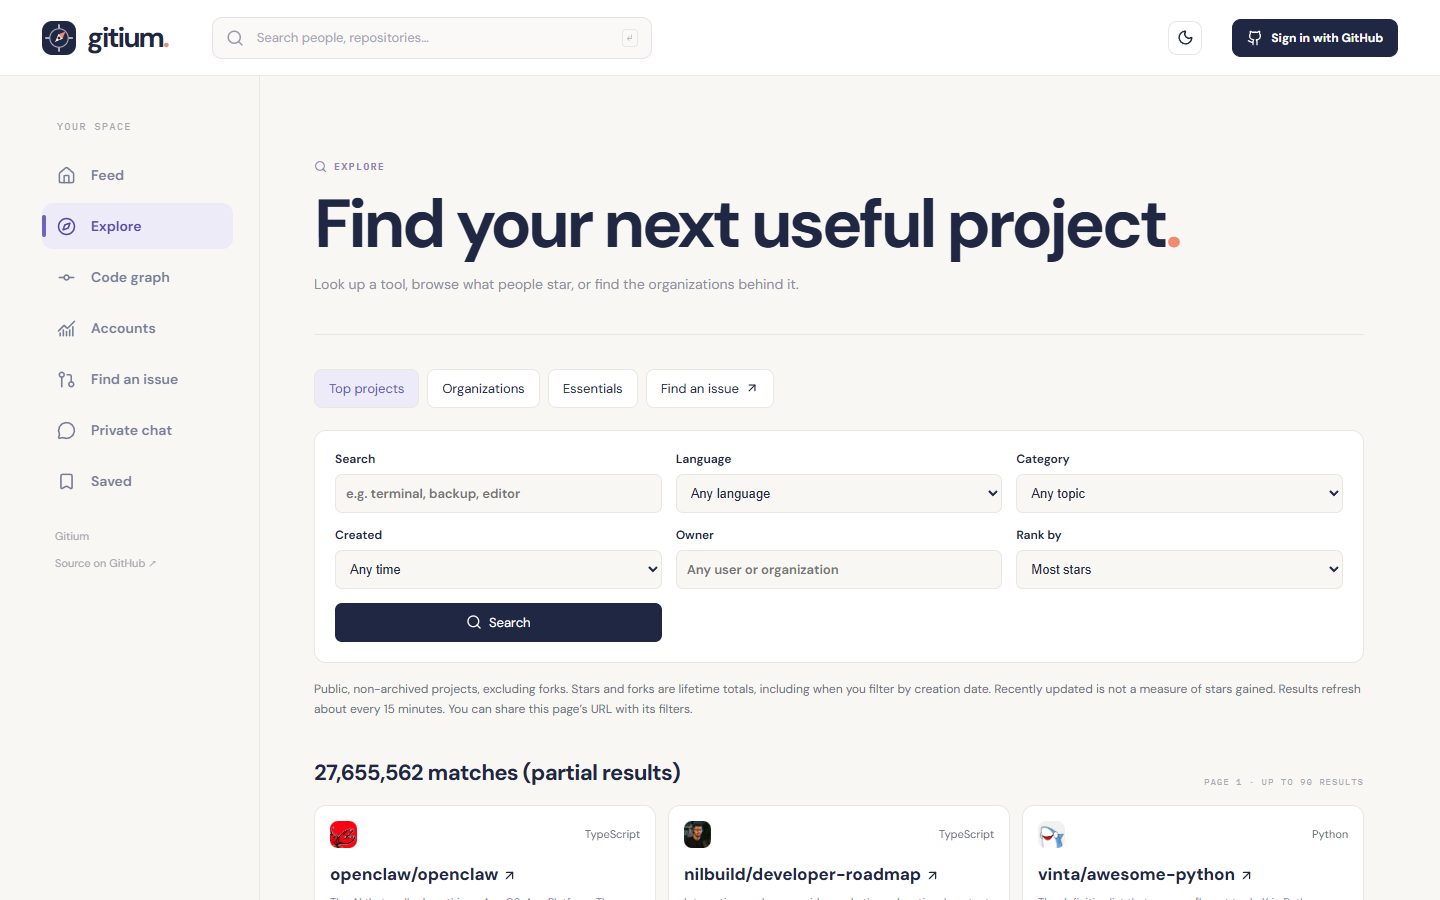
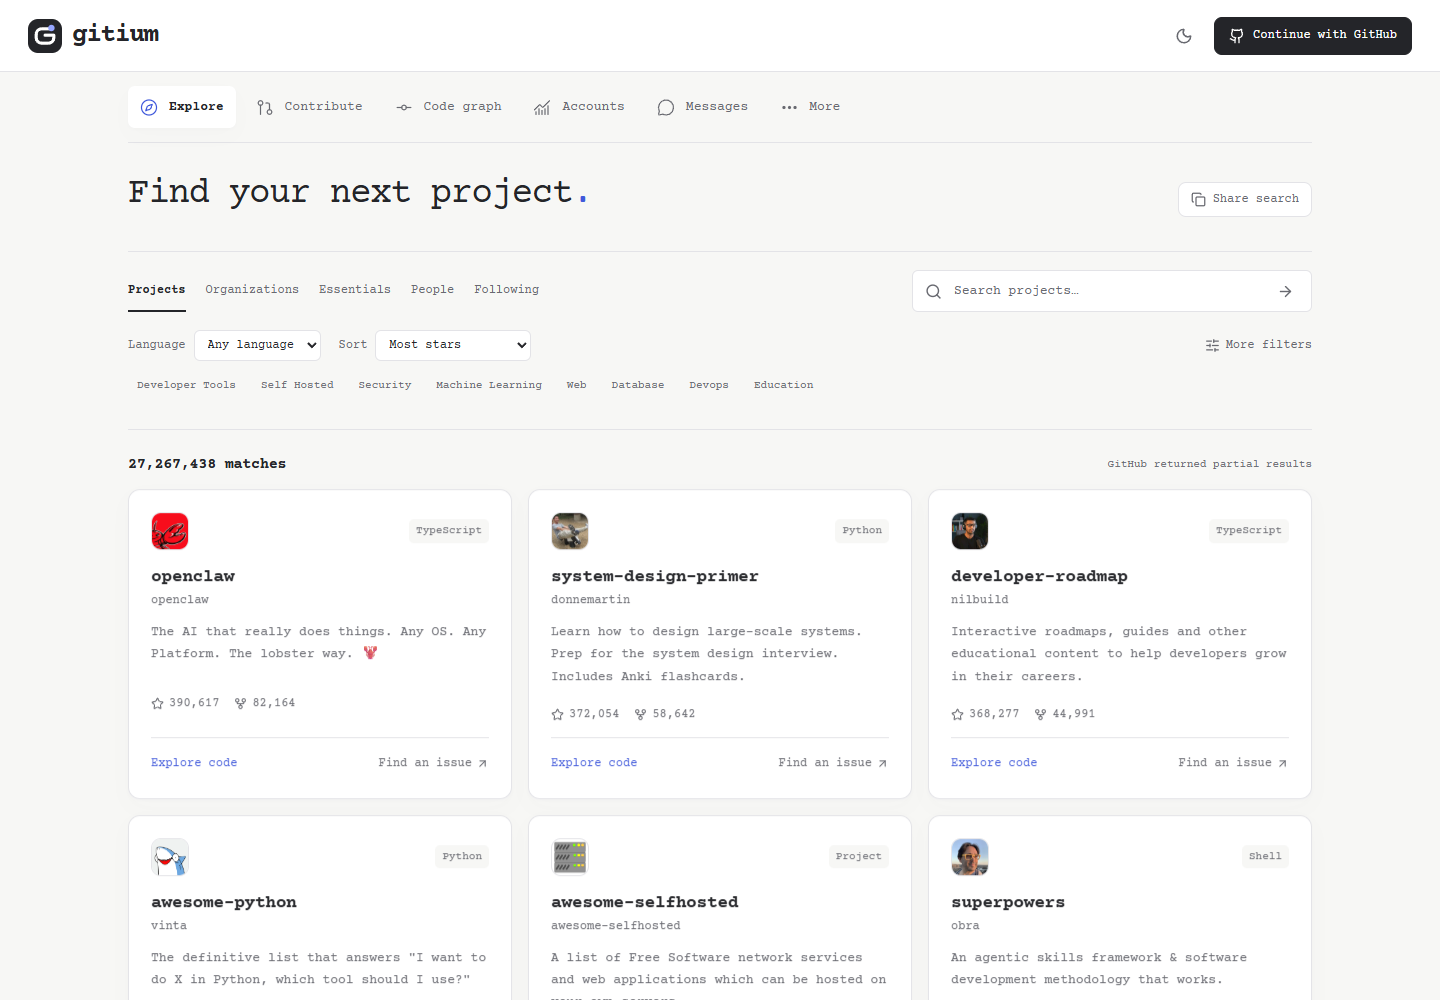
Add interactive first visit, populate People and polish discovery layouts

diff --git a/src/app/search/page.tsx b/src/app/search/page.tsx
@@ -1,18 +1,26 @@
 import { authEnabled } from '@/lib/auth';
 import { dbConfigured } from '@/lib/d1';
-import { getFollowedLogins } from '@/lib/follows';
-import { searchGitHub } from '@/lib/github';
+import { searchPeople } from '@/lib/github';
 import { Shell } from '@/components/Shell';
 import { FollowButton } from '@/components/FollowButton';
-import { ArrowUpRight, Search, Star } from 'lucide-react';
+import { DefaultSearch } from '@/components/SiteSearch';
+import { ExploreTabs } from '@/components/ExploreTabs';
+import { ArrowUpRight } from 'lucide-react';
 import Link from 'next/link';
 
-export const metadata = { title: 'Search', robots: { index: false, follow: true }, alternates: { canonical: '/search' } };
+export const metadata = { title: 'People on GitHub', robots: { index: false, follow: true }, alternates: { canonical: '/search' } };
 export default async function SearchPage({ searchParams }: { searchParams: Promise<{ q?: string }> }) {
   const query = String((await searchParams).q || '').trim().slice(0, 80);
-  const [results, follows] = await Promise.all([searchGitHub(query).then(data => ({ ...data, unavailable: false })).catch(() => ({ users: [], repos: [], unavailable: true })), getFollowedLogins()]);
-  return <Shell searchPeople searchInitial={query} authReady={authEnabled()} dataReady={dbConfigured()}><div className="wide-page"><div className="page-heading"><span className="eyebrow"><Search size={13} /> SEARCH GITHUB</span><h1>{query ? <>Results for <em>{query}</em><span>.</span></> : <>Find something good<span>.</span></>}</h1></div>{results.unavailable && <p className="status-banner" role="status">GitHub search is unavailable right now. Try again later.</p>}
-    <div className="section-bar"><h2>People</h2><span>{results.users.length} RESULTS</span></div>{results.users.length ? <div className="explore-people">{results.users.map(person => <article className="explore-person" key={person.login}><img src={person.avatar_url} alt="" /><div><Link href={`/u/${person.login}`}>{person.login} <ArrowUpRight size={14} /></Link><p>GitHub profile</p></div><FollowButton login={person.login} initial={follows.includes(person.login.toLowerCase())} enabled={dbConfigured()} /></article>)}</div> : <p className="empty-row">No people found.</p>}
-    <div className="section-bar"><h2>Repositories</h2><span>{results.repos.length} RESULTS</span></div>{results.repos.length ? <div className="repo-grid">{results.repos.map(repo => <a className="repo-card" href={repo.html_url} key={repo.id} target="_blank" rel="noopener noreferrer"><div><img src={repo.owner.avatar_url} alt="" /><ArrowUpRight size={18} /></div><h3>{repo.full_name}</h3><p>{repo.description || 'No description provided.'}</p><footer><span>{repo.language || 'Repository'}</span><span><Star size={14} /> {repo.stargazers_count.toLocaleString()}</span></footer></a>)}</div> : <p className="empty-row">No repositories found.</p>}
-  </div></Shell>;
+  const result = await searchPeople(query).catch(() => null);
+  return <Shell pageSearch authReady={authEnabled()} dataReady={dbConfigured()}>
+    <div className="wide-page explore-v2 people-page">
+      <header className="explore-heading"><h1>People<span>.</span></h1></header>
+      <div className="explore-workbench"><div className="explore-toolbar"><ExploreTabs view="people"/><DefaultSearch key={query} scope="people" initial={query}/></div></div>
+      <div className="section-bar"><h2>{query ? `Matches for “${query}”` : 'Popular on GitHub'}</h2>{result && <span>{result.users.length} profiles{result.incomplete ? ' · partial results' : ''}</span>}</div>
+      {!result ? <div className="empty-feed" role="status"><h3>GitHub search is unavailable</h3><p>Please try again shortly.</p><a href={`/search${query ? `?q=${encodeURIComponent(query)}` : ''}`}>Retry</a></div> : result.users.length ?
+        <div className="explore-people">{result.users.map(person => <article className="explore-person" key={person.id}>
+          <img src={person.avatar_url} alt="" width={48} height={48}/><div><Link href={`/u/${person.login}`}>{person.login}<ArrowUpRight size={14}/></Link><a className="person-github" href={person.html_url} target="_blank" rel="noopener noreferrer">GitHub profile</a></div><FollowButton login={person.login} initial={false} enabled={authEnabled()}/>
+        </article>)}</div> : <div className="empty-feed"><h3>No matching people</h3><p>Try a GitHub username or a shorter name.</p><Link href="/search">Browse people</Link></div>}
+    </div>
+  </Shell>;
 }

diff --git a/src/components/FirstVisit.tsx b/src/components/FirstVisit.tsx
@@ -1,0 +1,39 @@
+"use client";
+import { useCallback, useEffect, useRef, useState } from "react";
+import { ArrowRight, Code2, FolderGit2, Users } from "lucide-react";
+
+const sections = [
+  { label: "Projects", icon: FolderGit2, lines: ["open source", "languages & topics", "issues to work on"] },
+  { label: "People", icon: Users, lines: ["GitHub profiles", "people you follow", "shared projects"] },
+  { label: "Code", icon: Code2, lines: ["commits", "contributors", "repository history"] },
+];
+export function FirstVisit() {
+  const dialog = useRef<HTMLDialogElement>(null);
+  const timer = useRef<ReturnType<typeof setTimeout> | undefined>(undefined);
+  const [section, setSection] = useState(0);
+  const [closed, setClosed] = useState(false);
+  const dismiss = useCallback(() => {
+    clearTimeout(timer.current);
+    try { sessionStorage.setItem("gitium-intro-seen", "1"); } catch {}
+    delete document.documentElement.dataset.intro;
+    dialog.current?.close();
+    setClosed(true);
+  }, []);
+  useEffect(() => {
+    if (document.documentElement.dataset.intro !== "pending") return;
+    const node = dialog.current;
+    node?.showModal();
+    timer.current = setTimeout(dismiss, matchMedia("(prefers-reduced-motion: reduce)").matches ? 1000 : 2400);
+    return () => { clearTimeout(timer.current); node?.close(); };
+  }, [dismiss]);
+  if (closed) return null;
+  const selected = sections[section];
+  return <dialog ref={dialog} className="first-visit" aria-labelledby="intro-title" onCancel={event => { event.preventDefault(); dismiss(); }}>
+    <div className="intro-inner">
+      <div className="intro-brand"><svg viewBox="0 0 40 40" fill="none" aria-hidden="true"><path d="M27 11H16a7 7 0 0 0-7 7v4a7 7 0 0 0 7 7h8a7 7 0 0 0 7-7v-3H20" stroke="currentColor" strokeWidth="4" strokeLinecap="round"/><circle cx="28" cy="10" r="4" fill="var(--accent)"/></svg><h1 id="intro-title">gitium<span>_</span></h1></div>
+      <div className="intro-preview" key={section} aria-hidden="true"><div className="intro-orbit"><selected.icon size={32}/><i/><i/><i/></div><div className="intro-lines">{selected.lines.map((line,index)=><span key={line} style={{animationDelay:`${index*100}ms`}}>{line}</span>)}</div></div>
+      <div className="intro-choices" aria-label="Preview Gitium">{sections.map(({label,icon:Icon},index)=><button key={label} aria-pressed={section===index} onClick={()=>{clearTimeout(timer.current);setSection(index);}}><Icon size={15}/>{label}</button>)}</div>
+      <div className="intro-footer"><span role="status">Opening Gitium<span className="intro-dots">…</span></span><button autoFocus onClick={dismiss}>Enter Gitium <ArrowRight size={16}/></button></div>
+    </div>
+  </dialog>;
+}

diff --git a/src/app/intro.css b/src/app/intro.css
@@ -1,0 +1,14 @@
+.first-visit{display:none;position:fixed;inset:0;width:100vw;height:100dvh;max-width:none;max-height:none;margin:0;padding:24px;border:0;background:var(--bg);color:var(--ink);z-index:1000}
+html[data-intro="pending"] .first-visit{display:grid;place-items:center}
+.first-visit::backdrop{background:var(--bg)}
+.intro-inner{width:min(100%,480px)}
+.intro-brand{display:flex;align-items:center;gap:14px;margin-bottom:40px}.intro-brand svg{width:52px;height:52px}.intro-brand h1{font-size:44px;font-weight:400;margin:0;letter-spacing:-2px}.intro-brand h1 span{color:var(--accent);animation:intro-blink 1s steps(2,end) infinite}
+.intro-preview{display:flex;align-items:center;gap:38px;min-height:148px;padding:22px 24px;border-block:1px solid var(--line);margin-bottom:24px}
+.intro-orbit{position:relative;display:grid;place-items:center;flex:none;width:94px;height:94px;border:1px dashed var(--line);border-radius:50%;color:var(--accent)}
+.intro-orbit i{position:absolute;inset:0;animation:intro-orbit 5s linear infinite}.intro-orbit i::before{content:"";position:absolute;left:43px;top:-4px;width:7px;height:7px;border-radius:50%;background:var(--accent)}.intro-orbit i:nth-of-type(2){animation-delay:-1.7s}.intro-orbit i:nth-of-type(3){animation-delay:-3.4s}
+.intro-lines{display:grid;gap:12px;font-size:13px;color:var(--muted)}.intro-lines span{animation:intro-in .35s both}.intro-lines span:nth-child(2){color:var(--ink)}
+.intro-choices{display:flex;gap:8px;flex-wrap:wrap}.intro-choices button{display:flex;align-items:center;gap:7px;padding:10px 12px;border:1px solid var(--line);border-radius:6px;background:transparent;color:var(--muted);font:inherit;font-size:12px}.intro-choices button[aria-pressed=true]{background:var(--paper);border-color:var(--accent);color:var(--ink)}
+.intro-footer{display:flex;justify-content:space-between;align-items:center;gap:16px;margin-top:36px;font-size:11px;color:var(--muted)}.intro-footer button{display:flex;align-items:center;gap:10px;padding:12px 14px;background:var(--ink);color:var(--paper);border:0;border-radius:6px;font:inherit;font-size:12px}
+@keyframes intro-orbit{to{transform:rotate(360deg)}}@keyframes intro-blink{to{opacity:0}}@keyframes intro-in{from{opacity:0;transform:translateY(6px)}to{opacity:1;transform:translateY(0)}}
+@media(max-width:400px){.intro-preview{padding:20px 0;gap:24px}.intro-lines{font-size:11px}.intro-choices button{padding:10px;font-size:11px}.intro-brand h1{font-size:38px}}
+@media(prefers-reduced-motion:reduce){.first-visit *{animation:none!important;transition:none!important}}

diff --git a/src/app/search.css b/src/app/search.css
@@ -7,6 +7,16 @@
 .site-search button:hover{background:var(--lilac);color:var(--accent)}
 .code-input-help{display:flex;flex-wrap:wrap;align-items:center;justify-content:space-between;gap:12px;font-size:12px}
 .status-banner{display:flex;flex-wrap:wrap;align-items:center;gap:10px}
+.page-heading{padding:0 0 20px;margin-bottom:22px;border-bottom:0}
+.page-heading h1{margin-top:8px}
+.explore-person,html[data-theme="dark"] .explore-person{background:var(--paper);border-color:var(--line);gap:14px;padding:18px}
+.explore-person>div>a{display:flex;align-items:center;gap:6px;overflow-wrap:anywhere}
+.explore-person .person-github{font-size:11px;color:var(--muted);font-weight:400;margin-top:6px}
+.explore-person>img{flex:none;object-fit:cover;border-radius:50%;background:var(--hover)}
+.people-page .explore-toolbar{margin-bottom:0}
+.section-bar h2{overflow-wrap:anywhere}
+.route-loading{max-width:1184px;margin:0 auto;padding:40px 24px;color:var(--muted)}.route-loading>span{display:block;font-size:24px;color:var(--ink);margin-bottom:40px}.route-loading>div{height:48px;background:var(--line);opacity:.35;border-radius:6px;margin:16px 0}.route-loading>div:nth-of-type(2){width:70%}.route-loading>div:nth-of-type(3){height:180px}.route-loading>p{font-size:12px}
+@media(max-width:600px){.explore-v2 .explore-controls{display:grid;grid-template-columns:repeat(2,minmax(0,1fr));gap:12px}.explore-v2 .explore-controls label{display:flex;flex-direction:column;align-items:stretch;gap:6px;min-width:0}.explore-v2 .explore-controls select{width:100%;max-width:100%;font-size:12px;height:40px}.explore-v2 .explore-controls>button{grid-column:1/-1;justify-self:start;min-height:36px}.explore-v2 .explore-controls:has(select[aria-label="Essential category"]){grid-template-columns:1fr}.explore-person{padding:14px;gap:10px}.explore-person>img{width:38px;height:38px}.explore-person .follow-btn{padding:8px;font-size:11px}.explore-person a{font-size:12px}}
 .main-column>.site-search{margin-bottom:20px}
 .wide-page>.site-search{margin-bottom:18px}
 .explore-v2 .explore-workbench{padding:18px 0;background:transparent;border:0;border-top:1px solid var(--line);border-bottom:1px solid var(--line);border-radius:0;box-shadow:none}

diff --git a/src/app/layout.tsx b/src/app/layout.tsx
@@ -1,9 +1,11 @@
 import type { Metadata } from 'next';
 import { SessionProvider } from '@/components/SessionProvider';
 import { SiteAnalytics } from '@/components/Analytics';
+import { FirstVisit } from '@/components/FirstVisit';
 import './globals.css';
 import './theme.css';
 import './search.css';
+import './intro.css';
 
 const site = 'https://gitium.vercel.app';
 const description = 'Find top GitHub projects and organizations by language and topic. Browse essential open source tools, explore code graphs, and find issues to contribute to.';
@@ -31,5 +33,5 @@ const structuredData = {
 };
 
 export default function RootLayout({ children }: Readonly<{ children: React.ReactNode }>) {
-  return <html lang="en" suppressHydrationWarning><head><script dangerouslySetInnerHTML={{ __html: "try{document.documentElement.dataset.theme=localStorage.getItem('gitium-theme')||'light'}catch(e){}" }}/><script type="application/ld+json" dangerouslySetInnerHTML={{ __html: JSON.stringify(structuredData) }}/></head><body><SessionProvider>{children}</SessionProvider><SiteAnalytics /></body></html>;
+  return <html lang="en" suppressHydrationWarning><head><script dangerouslySetInnerHTML={{ __html: "try{document.documentElement.dataset.theme=localStorage.getItem('gitium-theme')||'light'}catch(e){};try{if(!sessionStorage.getItem('gitium-intro-seen')){document.documentElement.dataset.intro='pending';setTimeout(function(){delete document.documentElement.dataset.intro;var d=document.querySelector('.first-visit');if(d&&d.open)d.close()},10000)}}catch(e){}" }}/><script type="application/ld+json" dangerouslySetInnerHTML={{ __html: JSON.stringify(structuredData) }}/></head><body><FirstVisit/><SessionProvider>{children}</SessionProvider><SiteAnalytics /></body></html>;
 }

diff --git a/src/app/explore/following/page.tsx b/src/app/explore/following/page.tsx
@@ -4,6 +4,8 @@ import { discoverFromPeople, getFeed } from "@/lib/github";
 import { Shell } from "@/components/Shell";
 import { FeedView } from "@/components/FeedView";
 import { DiscoveryPanel } from "@/components/DiscoveryPanel";
+import { ExploreTabs } from "@/components/ExploreTabs";
+import { DefaultSearch } from "@/components/SiteSearch";
 
 export const metadata = {
   title: "Following",
@@ -20,7 +22,7 @@ export default async function FollowingPage() {
     })),
   ]);
   return (
-    <Shell authReady={authEnabled()} dataReady={dbConfigured()}>
+    <Shell pageSearch authReady={authEnabled()} dataReady={dbConfigured()}>
       <div className="wide-page explore-v2 following-page">
         <header className="explore-heading">
           <div>
@@ -30,6 +32,7 @@ export default async function FollowingPage() {
             <p>Projects and updates from the people you follow.</p>
           </div>
         </header>
+        <div className="explore-workbench"><div className="explore-toolbar"><ExploreTabs view="following"/><DefaultSearch scope="people"/></div></div>
         <DiscoveryPanel example={example.projects} />
         <FeedView discover={feed.events} authReady={authEnabled()} />
       </div>

diff --git a/src/lib/github.ts b/src/lib/github.ts
@@ -164,6 +164,13 @@ export async function searchGitHub(query: string): Promise<{ users: GitHubUser[]
   return { users: users.status === 'fulfilled' ? users.value.items : [], repos: repos.status === 'fulfilled' ? repos.value.items : [] };
 }
 
+export async function searchPeople(query: string): Promise<{ users: GitHubUser[]; total: number; incomplete: boolean }> {
+  const clean = query.trim().slice(0, 80);
+  const search = clean ? `${clean} type:user` : 'type:user followers:>100';
+  const data = await githubGet<{ items: GitHubUser[]; total_count: number; incomplete_results: boolean }>(`/search/users?q=${encodeURIComponent(search)}&sort=followers&order=desc&per_page=18`, 600);
+  return { users: data.items, total: data.total_count, incomplete: data.incomplete_results };
+}
+
 export async function getTrendingRepos(): Promise<GitHubRepo[]> {
   const date = new Date(Date.now() - 30 * 86400000).toISOString().slice(0, 10);
   const data = await githubGet<{ items: GitHubRepo[] }>(`/search/repositories?q=${encodeURIComponent(`created:>${date} stars:>20`)}&sort=stars&order=desc&per_page=6`, 3600);

diff --git a/src/components/SiteSearch.tsx b/src/components/SiteSearch.tsx
@@ -37,5 +37,5 @@ export function PageSearch(props: Props) {
 export function DefaultSearch({ initial = "", scope = "projects" }: { initial?: string; scope?: Scope }) {
   const [value, setValue] = useState(initial);
   const router = useRouter();
-  return <SiteSearch scope={scope} value={value} onChange={setValue} onSubmit={() => router.push(destination(scope, value))} />;
+  return <SiteSearch scope={scope} value={value} onChange={setValue} placeholder={scope === "people" ? "Search people on GitHub…" : "Search projects…"} onSubmit={() => router.push(destination(scope, value))} />;
 }

diff --git a/src/app/loading.tsx b/src/app/loading.tsx
@@ -1,0 +1,3 @@
+export default function Loading() {
+  return <main className="route-loading" aria-busy="true" aria-label="Loading page"><span>gitium</span><div/><div/><div/><p role="status">Loading…</p></main>;
+}

diff --git a/README.md b/README.md
@@ -2,55 +2,47 @@
 
 ### Find your next GitHub project.
 
-Find useful GitHub projects and the organizations behind them. Browse by language and topic, explore their commit history, and find something to contribute to.
+A place to discover open source, meet the people behind it, and find work you want to contribute to.
 
-[Explore Gitium](https://gitium.vercel.app) · [Meet the maker](https://manasraj.vercel.app)
+**[Open Gitium →](https://gitium.vercel.app)** · [Made by Manas Raj](https://manasraj.vercel.app)
 
-![Gitium project discovery](docs/preview.png)
+![Explore projects on Gitium](docs/preview.png)
 
-## Find projects through people
+## Start with a good find
 
-Start with **top projects** ranked by stars, forks or recent updates. Search by language, topic, owner and creation date, or browse organizations by followers and repository count. Every filtered page has a shareable URL.
+Browse public projects by language, topic, stars, forks, or recent updates. Explore organizations and their repositories. Search **1,000+ essentials** across developer tools, self-hosting, security, and more.
 
-**Essentials** brings together more than **1,000 projects** across dozens of categories. Search instantly, filter by what you need, then explore the code or find an issue. The community catalog is adapted from [Awesome Selfhosted](https://github.com/awesome-selfhosted/awesome-selfhosted), with separately authored Gitium starter picks. [Catalog attribution and license](public/catalog/ATTRIBUTION.md).
+One search field. Clear filters. Links you can share.
 
-Explore updates as you search. One-click topic filters, language selection, repository links and shareable searches make it easier to narrow things down. Light and dark themes use the same compact layout.
+## Find your people
 
-Your GitHub follows are your starting point. Gitium brings together the repositories they recently starred and shows exactly who found each one. When several people in your circle pick the same project, you can see the overlap. Follow or unfollow someone in Gitium and the change appears on GitHub too.
+Discover GitHub profiles, search for someone, and follow their work. Following brings together their updates and starred projects, including the picks shared by several people in your network. Follow and unfollow changes sync with GitHub.
 
-## See the code behind an account
+## Go beyond the repository name
 
-Open any GitHub profile to see a year of contributions, its recent repository languages, and the most starred projects in the sample. Open a public repository to graph its recent commit cadence, contributors, and changes. Gitium also gives every account an **illustrative dollar estimate** using a visible formula based on contributions, followers, stars, and repositories. It is a way to compare public activity, not a sale price or financial valuation. A local history in your browser lets you see how an estimate changes over time.
+- **Code graph:** recent commits, contributors, and activity on a public repository’s default branch. Paste `owner/repo` or a GitHub URL.
+- **Accounts:** a year of contributions, repository languages, and a playful dollar score with visible additions and deductions. It is not a financial valuation.
+- **Contribute:** open issues filtered by language, repository, labels, and assignment status. Read the original issue and check with its maintainer before starting.
+- **Leaderboards:** the ten most explored repositories and highest recorded account scores for the day, week, month, or year.
 
-## Find an issue
+## Keep the useful bits
 
-Browse open GitHub issues by language, repository, recent activity, and the project’s **good first issue** or **help wanted** labels. Filter for unassigned work, read the details, and go directly to the original issue. Check with the maintainers before starting.
+Bring in your GitHub stars. Filter them, open a code graph, or return to the original project. Save activity for later in your browser.
 
-## Give work a place to talk
+## Talk privately
 
-- **Private rooms:** invite people into repository and organization chats.
-- **Direct chat:** send a request. The recipient accepts or declines before messages unlock. Cancel pending requests or block someone at any time.
+Direct messages begin with a request the recipient accepts or declines. Repository and organization rooms are invitation-only.
 
-Room invitations have Join and Decline controls. Direct chats require mutual consent, and a declined request cannot be sent again by its original sender. Blocking stops DMs and new invitations between the two accounts. Existing shared rooms keep their membership rules; leave a room to stop participating there. Repository and organization rooms are created by Gitium users and are not official GitHub-managed spaces.
+New messages are **end-to-end encrypted** on verified devices. Compare fingerprints before chatting and keep an encrypted recovery file. Encrypted messages are retained for 30 days. Earlier plaintext history is separately labelled; it is not retroactively encrypted.
 
-New messages are **end-to-end encrypted** on your devices. Compare device fingerprints before chatting, and keep an encrypted recovery file for your history. Earlier plaintext messages stay in a separate history section; they are not converted to encrypted messages. Encrypted messages are retained for 30 days.
+## Make yourself at home
 
-## Bring your stars along
+A brief interactive introduction, typewriter lettering, light and dark themes, and layouts made for phones as well as desktops. No installation required.
 
-Open your library to import GitHub stars, filter the list, and explore a repository's code graph. Your star list is read from GitHub rather than copied into Gitium's database.
-
-## See what people are exploring
-
-Code and account leaderboards show the top ten for today, seven days, thirty days, or a year. Repository rankings count one signed-in exploration per person per repository each day. Account rankings use computed score snapshots, including deductions for stale projects, forks, and concentrated stars.
-
-## Keep up without losing the source
-
-Browse recent work from your GitHub network, save useful links in your browser, and open the original commit, issue, pull request, release, or repository on GitHub. Gitium shows where a project came from and lets you decide what matters.
-
-## Your account, your view
-
-Gitium reads public project and account information from GitHub when you use it. It stores your Gitium conversations so participants can read and reply, while saved links and estimate history stay in your browser. Light and dark themes are built in.
+**[Find something on Gitium](https://gitium.vercel.app/explore)**
 
 ---
 
-**Gitium** is made by [Manas Raj](https://manasraj.vercel.app).
+Essentials includes community descriptions from [Awesome Selfhosted](https://github.com/awesome-selfhosted/awesome-selfhosted), alongside Gitium starter picks. [Attribution and license](public/catalog/ATTRIBUTION.md).
+
+Gitium is an independent project by [Manas Raj](https://manasraj.vercel.app), not affiliated with GitHub.
